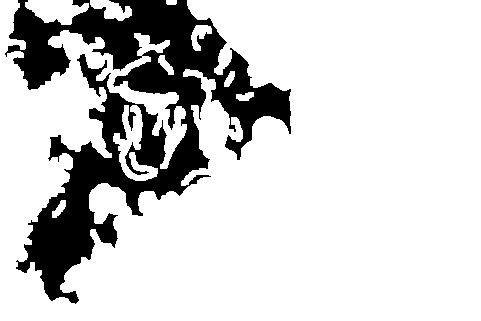
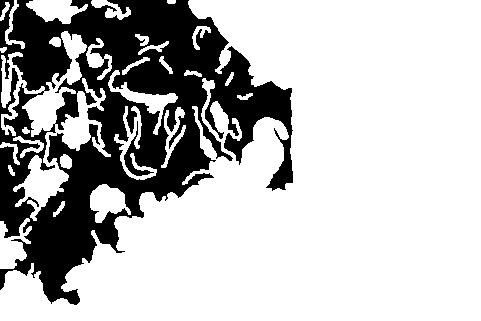
Bir kaç kez gauss ve canny

diff --git a/main.py b/main.py
@@ -1,63 +1,39 @@
 import cv2
 import numpy as np
-import cv2
-import numpy as np
 from matplotlib import pyplot as plt
-from scipy import ndimage
-from skimage.feature import peak_local_max
-from skimage.morphology import watershed
-from matplotlib import pyplot as plt
+kernel = np.ones((5,5),np.uint8)
 
-kernel = np.ones((5, 5), np.uint8)
-img = cv2.imread(r"D:\maymun.jpg", 0)
+img = cv2.imread(r"D:\maymun.jpg")
 img = cv2.GaussianBlur(img, (11, 11), 0)
+
 img = cv2.Canny(img, 0, 50)
 
+img = cv2.GaussianBlur(img, (11, 11), 0)
+img = cv2.Canny(img, 0, 50)
+img = cv2.GaussianBlur(img, (11, 11), 0)
+img = cv2.Canny(img, 0, 50)
+img = cv2.GaussianBlur(img, (11, 11), 0)
+
+# img = cv2.addWeighted(img, 48, cv2.blur(img, (60, 30)), -4, 40)
+
+img = cv2.morphologyEx(img, cv2.MORPH_ERODE, kernel)
+img = cv2.morphologyEx(img, cv2.MORPH_ERODE, kernel)
+img = cv2.morphologyEx(img, cv2.MORPH_ERODE, kernel)
+img = cv2.Canny(img, 0, 50)
+
+
+# img = cv2.bitwise_not(img)
 cv2.imwrite('keni.jpg',img)
-img = cv2.dilate(img, kernel, iterations=1)
+cv2.imshow("Canny", img)
 
-img_erosion = cv2.erode(img, kernel, iterations=1)
-img_dilation = cv2.dilate(img, kernel, iterations=1)
 
-img_open = cv2.dilate(cv2.erode(img, kernel, iterations=1), kernel, iterations=1)
-
-img_close = cv2.erode(cv2.dilate(img, kernel, iterations=2), kernel, iterations=2)
-
-# Threshold
-th, im_th = cv2.threshold(img, 0, 90, cv2.THRESH_BINARY)
-
-# Copy the thresholded image
-im_floodfill = im_th.copy()
-
-# Mask used to flood filling.
-# NOTE: the size needs to be 2 pixels bigger on each side than the input image
-h, w = im_th.shape[:2]
-mask = np.zeros((h + 2, w + 2), np.uint8)
-
-# Floodfill from point (0, 0)
-cv2.floodFill(im_floodfill, mask, (150, 150), 255)
-
-# Invert floodfilled image
-im_floodfill_inv = cv2.bitwise_not(im_floodfill)
-
-# Combine the two images to get the foreground
-im_out = im_th | im_floodfill_inv
-
-cv2.imwrite('bilmem.jpg',im_out)
-cv2.imshow("Result", im_out)
-
-# img = cv2.imread(r"D:\maymun.jpg")
-# b, g, r = cv2.split(img)
-# plt.hist(b.ravel(), 256, [0, 256])
-# plt.hist(g.ravel(), 256, [0, 256])
-# plt.hist(r.ravel(), 256, [0, 256])
-# plt.show()
 
 
 cv2.waitKey(0)
 cv2.destroyAllWindows()
 
-# ADIMLAR ONEMLI
+
+#ADIMLAR ONEMLI
 # İlk aşama canny 0,50
 # İkinci aşama Açma Kapama
 # Üçüncü aşama alttaki fill
@@ -68,6 +44,12 @@ cv2.destroyAllWindows()
 # https://docs.opencv.org/trunk/d9/d61/tutorial_py_morphological_ops.html
 
 
+# import cv2
+# import numpy as np
+# from matplotlib import pyplot as plt
+# from scipy import ndimage
+# from skimage.feature import peak_local_max
+# from skimage.morphology import watershed
 #
 #
 # im_in = cv2.imread("deneme.jpg", cv2.IMREAD_GRAYSCALE)
